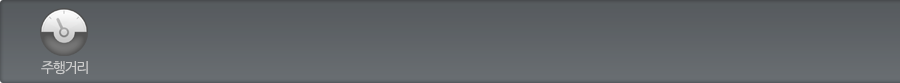
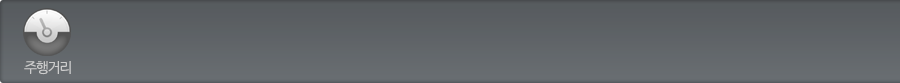
summary tab design

Changed region(s): [[0.0, 0.0964, 0.1244, 0.5301], [0.0, 0.7229, 0.1244, 0.8916], [0.0311, 0.5783, 0.0933, 0.6024]]

diff --git a/resources/css/HatioBB.css b/resources/css/HatioBB.css
@@ -141,7 +141,7 @@
 .divHAlign .iconVelocity{background:url('../images/iconVelocity.png') no-repeat;}
 .divHAlign .iconOBD{background:url('../images/iconOBD.png') no-repeat;}
 .divHAlign .iconFuel{background:url('../images/iconFuel.png') no-repeat;}
-.divHAlign .iconDistance{background:url('../images/iconDistance.png') 2px 0 no-repeat;}
+.divHAlign .iconTime{background:url('../images/iconTime.png') 2px 0 no-repeat;}
 .divHAlign .iconMap{background:url('../images/iconHeaderView.png') -8px -6px no-repeat;}
 .divHAlign .iconTrack{background:url('../images/iconHeaderView.png') -9px -85px no-repeat;}
 .shotHList .x-field{background-color:transparent;}
@@ -173,7 +173,7 @@
 .ecoComment span{font-weight:bold;color:#4b7a00;font-size:28px;display:block}
 .distance{
 	background:url('../images/bgDistance.png') no-repeat;height:83px;border:1px solid #fff;padding:5px 0 0 0;
-	-webkit-border-radius: 4px;-moz-border-radius:5px;border-radius: 4px;
+	-webkit-border-radius: 4px;border-radius: 4px;
 }
 .distance div{float:right;margin-top:3px;padding:0 7%;font-size:11px;text-align:center}
 .distance div span{display:block}
@@ -183,12 +183,17 @@
 .distance span.mile{font-size:12px;background-color:#363636;padding:1px 2px}
 .distance .running{clear:both}
 .fuel{
-	background:url('../images/bgFuel.png') no-repeat;height:35px;border:1px solid #fff;padding:5px 0 0 6%;margin-top:10px;
+	background:url('../images/bgFuel.png') no-repeat;height:35px;border:1px solid #fff;padding:3px 0 0 6%;margin-top:10px;
 	-webkit-border-radius: 4px;-moz-border-radius:5px;border-radius: 4px;
 }
-.fuel div{float:left;color:#acacac;font-size:18px;font-weight:bold;width:60%;}
-.fuel div:last-child{width:33%}
-.fuel span{color:#fff;}
+.fuel div{float:left;color:#acacac;font-size:18px;font-weight:bold;width:57%;}
+.fuel div:last-child{width:35%}
+.fuel span{color:#fff;font-size:22px}
+.summaryConsumable .percent{float:right;width:70%;background-color:#5e6367;-webkit-border-radius:4px;border-radius:4px;color:#fff}
+.summaryConsumable .itemCell{background:url('../images/dotGray.png') 15px 10px no-repeat;padding:0 10px 0 25px;margin:15px 0 0 0}
+.summaryRepair .itemCell{padding:15px 10px 0 20px;}
+.percent{-webkit-border-radius:4px;padding:2px} 
+.percent span{background:url('../images/bgHealthBar.png') 50% 0 no-repeat;padding-right:10px;-webkit-border-radius:3px;display:block;text-align:right;}
 
 /*tab style*/
 .x-tabbar-dark.x-docked-bottom .x-tab .x-button-icon{background-color:transparent !important;background-image:none;width:32px;height:32px;}

diff --git a/app/view/vehicle/Summary.js b/app/view/vehicle/Summary.js
@@ -22,7 +22,7 @@ Ext.define('HatioBB.view.vehicle.Summary', {
 			cls : 'shotHList marginT10 divHAlign',
 			html : [
 				'<div class="iconFuel">Remaining Fuel<span>25</span></div>',
-				'<div class="iconDistance">Total Distance<span>256,000</span></div>',
+				'<div class="iconTime">Total Drive Time<span>5,500 min</span></div>',
 				'<div class="iconMap">Move to<span>Current Position Map</span></div>',
 				'<div class="iconTrack">Move to<span>Recent Running Track</span></div>',
 			].join('')
@@ -169,8 +169,8 @@ Ext.define('HatioBB.view.vehicle.Summary', {
 				'<div class="current">이달 주행거리<span class="km">202.7 km</span><span class="mile">0.125952 mile</span></div>',
 			'</div>',
 			'<div class="fuel">',
-				'<div>이달 연료 소모량 : <span>170 ℓ</span></div>',
-				'<div>이달 연비 : <span>7 km/ℓ</span></div>',
+				'<div>이달 연료 소모량 : <span>170ℓ</span></div>',
+				'<div>이달 연비 : <span>7km/ℓ</span></div>',
 			'</div>'	
 			]
 		}
@@ -180,11 +180,12 @@ Ext.define('HatioBB.view.vehicle.Summary', {
 		return {
 			xtype : 'panel',
 			flex : 1,
+			cls : 'summaryConsumable',
 			html : [
-			'<div class="subtitle">my eco level</div>',
-			'<div>이 차는</div>',
-			'<div>엔진오일의 교체시기가 초과되었으며,</div>',
-			'<div>배터리와 휠얼라인먼트의 교체주기가 임박하였습니다.</div>'
+			'<div class="subtitle">consumable</div>',
+			'<div class="itemCell">Engine Oil <div class="percent"><span style="width:100%">112%</div></div></div>',
+			'<div class="itemCell">Battery <div class="percent"><span style="width:86%">86%</div></div></div>',
+			'<div class="itemCell">Antifreeze <div class="percent"><span style="width:95%">95%</div></div></div>',
 			].join('')
 		}
 	}, 
@@ -193,11 +194,10 @@ Ext.define('HatioBB.view.vehicle.Summary', {
 		return {
 			xtype : 'panel',
 			flex : 1,
+			cls : 'summaryRepair',
 			html : [
-			'<div class="subtitle">my eco level</div>',
-			'<div>이 차는</div>',
-			'<div>2012년 1월 31일에 정비를 하였으며,</div>',
-			'<div>다음 정비 예정일은 2012년 6월 30일 입니다.</div>'
+			'<div class="subtitle">repair</div>',
+			'<div class="itemCell">2012년 1월 31일에 정비를 하였으며,<br/>다음 정비 예정일은 2012년 6월 30일 입니다.</div>'
 			].join('')
 		}
 	}, 
